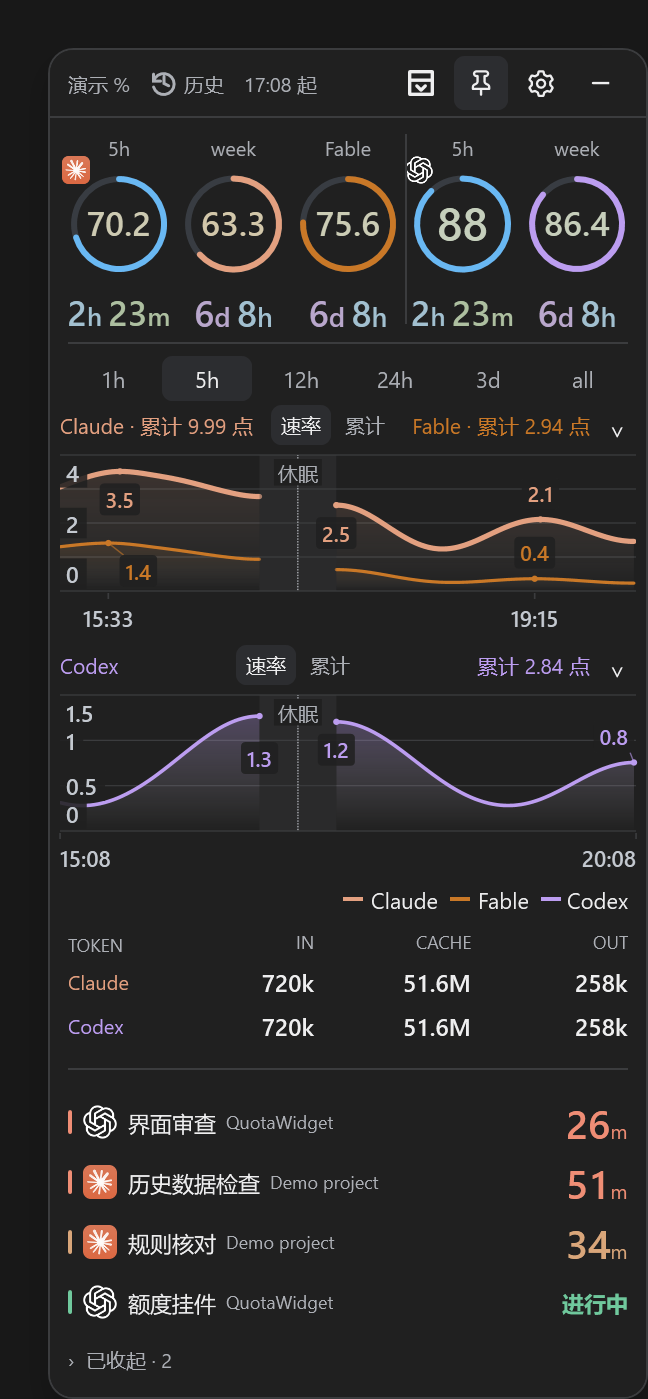
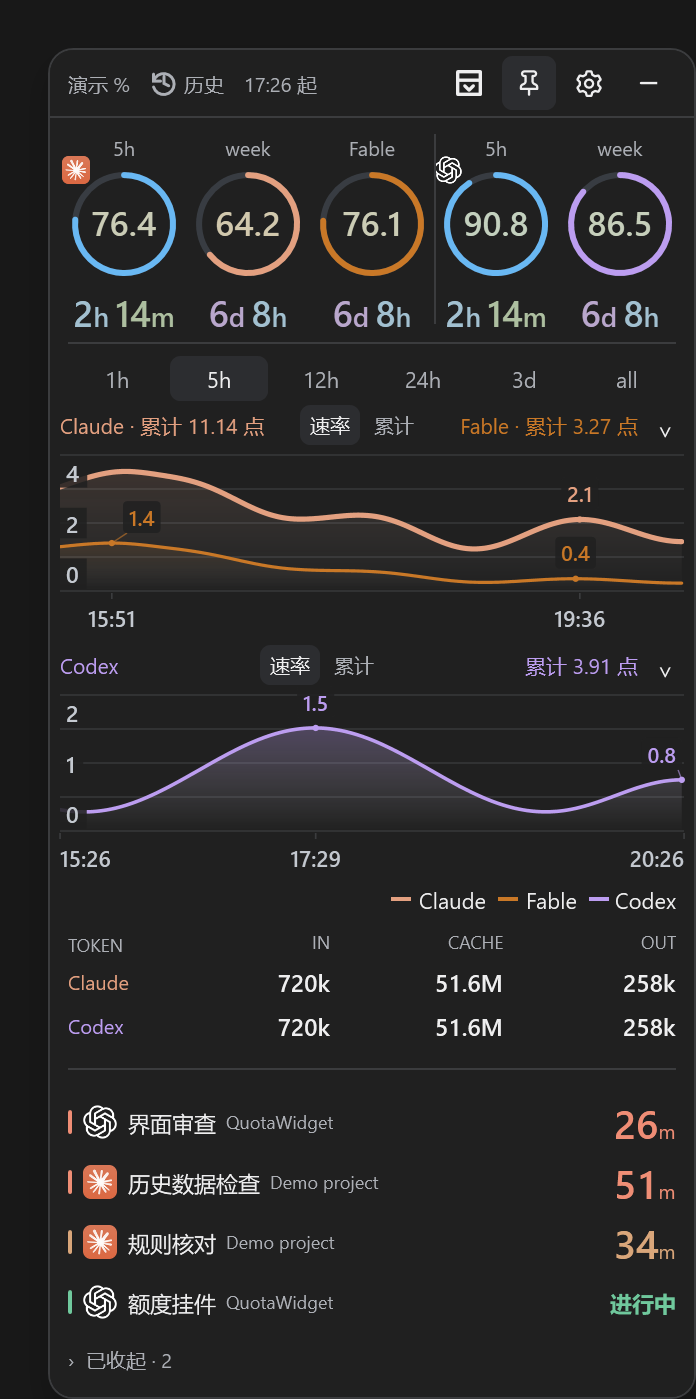
Use continuous demo data for README gallery

diff --git a/src/QuotaWidget.Core/DemoData.cs b/src/QuotaWidget.Core/DemoData.cs
@@ -30,7 +30,9 @@ public static class DemoData
         var store = new HistoryStore(paths, demoMode: true);
         var events = new EventLog(paths);
         var rnd = new Random(7);
-        var plan = codex ? scenario=="codex-plus"?"Codex Plus（演示）":"Codex Pro（演示）" : "Max (5x)";
+        var showcase = scenario == "showcase";
+        var codexFiveHour = scenario == "codex-plus" || showcase;
+        var plan = codex ? codexFiveHour?"Codex Plus（演示）":"Codex Pro（演示）" : "Max (5x)";
         var lastT = scenario == "stale" ? now.AddMinutes(-22) : now.AddMinutes(-1);
         var t0 = lastT.AddHours(-26);
         var weekReset = lastT.AddHours(-15);
@@ -46,12 +48,17 @@ public static class DemoData
         DateTimeOffset? prev = null;
         bool In((DateTimeOffset a, DateTimeOffset b) w, DateTimeOffset t) => t >= w.a && t < w.b;
 
-        events.Append(new AppEvent(notRunning.Item1.AddSeconds(30), EventTypes.AppExit));
-        events.Append(new AppEvent(notRunning.Item2.AddSeconds(-40), EventTypes.AppStart));
-        events.Append(new AppEvent(sleep.Item1.AddSeconds(20), EventTypes.Suspend));
-        events.Append(new AppEvent(sleep.Item2.AddSeconds(-30), EventTypes.Resume));
-        for (var f = offline.Item1.AddMinutes(1); f < offline.Item2; f = f.AddMinutes(5))
-            events.Append(new AppEvent(f, EventTypes.CollectFail, Statuses.Error, "network", SourceId, ProfileKey));
+        // Gallery screenshots show ordinary continuous collection. Other demo scenarios retain
+        // interruption examples for inspecting the real gap renderer.
+        if (!showcase)
+        {
+            events.Append(new AppEvent(notRunning.Item1.AddSeconds(30), EventTypes.AppExit));
+            events.Append(new AppEvent(notRunning.Item2.AddSeconds(-40), EventTypes.AppStart));
+            events.Append(new AppEvent(sleep.Item1.AddSeconds(20), EventTypes.Suspend));
+            events.Append(new AppEvent(sleep.Item2.AddSeconds(-30), EventTypes.Resume));
+            for (var f = offline.Item1.AddMinutes(1); f < offline.Item2; f = f.AddMinutes(5))
+                events.Append(new AppEvent(f, EventTypes.CollectFail, Statuses.Error, "network", SourceId, ProfileKey));
+        }
 
         var step = scenario == "slow" ? 30 : 5; // "slow": 30-minute polling
         settings.PollIntervalSeconds = step * 60;
@@ -59,7 +66,7 @@ public static class DemoData
         for (var t = t0; t <= lastT; t = t.AddMinutes(step))
         {
             var obs = t.AddSeconds(rnd.Next(-8, 9));
-            if (In(sleep, obs) || In(unexplained, obs) || In(notRunning, obs) || In(offline, obs)) continue;
+            if (!showcase && (In(sleep, obs) || In(unexplained, obs) || In(notRunning, obs) || In(offline, obs))) continue;
             if (prev is { } p)
             {
                 var hours = (obs - p).TotalHours;
@@ -78,7 +85,7 @@ public static class DemoData
             prev = obs;
             var fableMissing = obs < t0.AddMinutes(40);
             var limits = new QuotaLimits(
-                codex&&scenario!="codex-plus"?null:UsageParser.Limit(Math.Round(five, 2), fiveResetAt),
+                codex&&!codexFiveHour?null:UsageParser.Limit(Math.Round(five, 2), fiveResetAt),
                 UsageParser.Limit(Math.Round(week, 2), weekResetAt),
                 codex||fableMissing ? null : UsageParser.Limit(Math.Round(fab, 2), weekResetAt));
             var snap = new QuotaSnapshot("demo-" + obs.UtcDateTime.ToString("yyyyMMddTHHmmss"), obs, limits);

diff --git a/CONTRIBUTING.md b/CONTRIBUTING.md
@@ -12,6 +12,8 @@ dotnet run --project src/QuotaWidget -- --demo --scenario codex-plus --language 
 
 Core tests use temporary directories and synthetic records. WPF tests exercise real layouts and handlers without starting background collectors.
 
+To refresh the README gallery, run `pwsh -File scripts/Update-Screenshots.ps1` with PowerShell 7. This uses the `showcase` demo scenario: continuous synthetic collection with both Codex quota windows. Other demo scenarios retain simulated sleep and connection gaps for diagnostics. Real sleep labels require recorded Windows power events; an idle chat does not imply sleep.
+
 Optional official CLI integration checks are skipped by default. To run them explicitly on your own computer:
 
 ```powershell

diff --git a/CONTRIBUTING.zh-CN.md b/CONTRIBUTING.zh-CN.md
@@ -12,6 +12,8 @@ dotnet run --project src/QuotaWidget -- --demo --scenario codex-plus
 
 核心测试使用临时目录和合成记录。WPF 测试调用真实布局与处理函数，不启动采集后台任务。
 
+更新 README 展示图时，用 PowerShell 7 运行 `pwsh -File scripts/Update-Screenshots.ps1`。脚本采用 `showcase` 演示场景：连续采样的合成数据，并展示 Codex 的两个额度窗口。其他演示场景保留模拟休眠和连接中断，供调试使用。真实界面的“休眠”只由 Windows 电源事件判定，chat 暂时没有活动不代表电脑休眠。
+
 可选的官方 CLI 集成检查默认跳过。要在自己电脑显式运行：
 
 ```powershell
